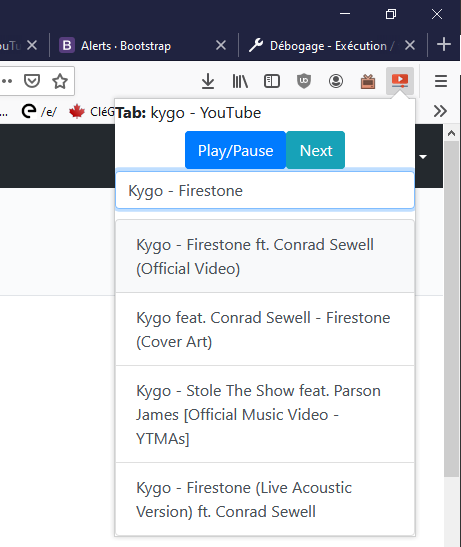
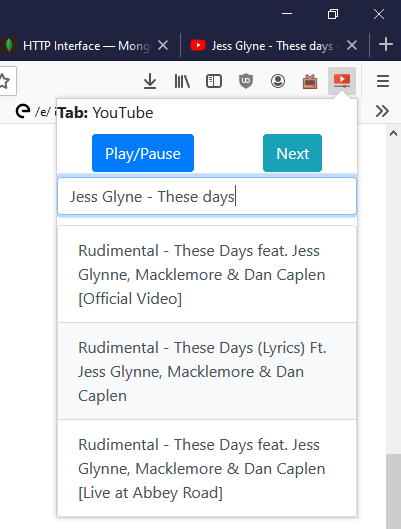
Control button margin

Changed region(s): [[0.0, 0.0, 1.0, 1.0], [0.9277, 0.0, 0.9576, 0.0302]]

diff --git a/popup/youtube_remote.css b/popup/youtube_remote.css
@@ -2,8 +2,8 @@ html, body {
     width: 300px;
 }
 
-.control {
-    margin: 2px 50%;
+.control > button {
+    margin: 5px auto;
 }
 
 #youtube-tab::before {
